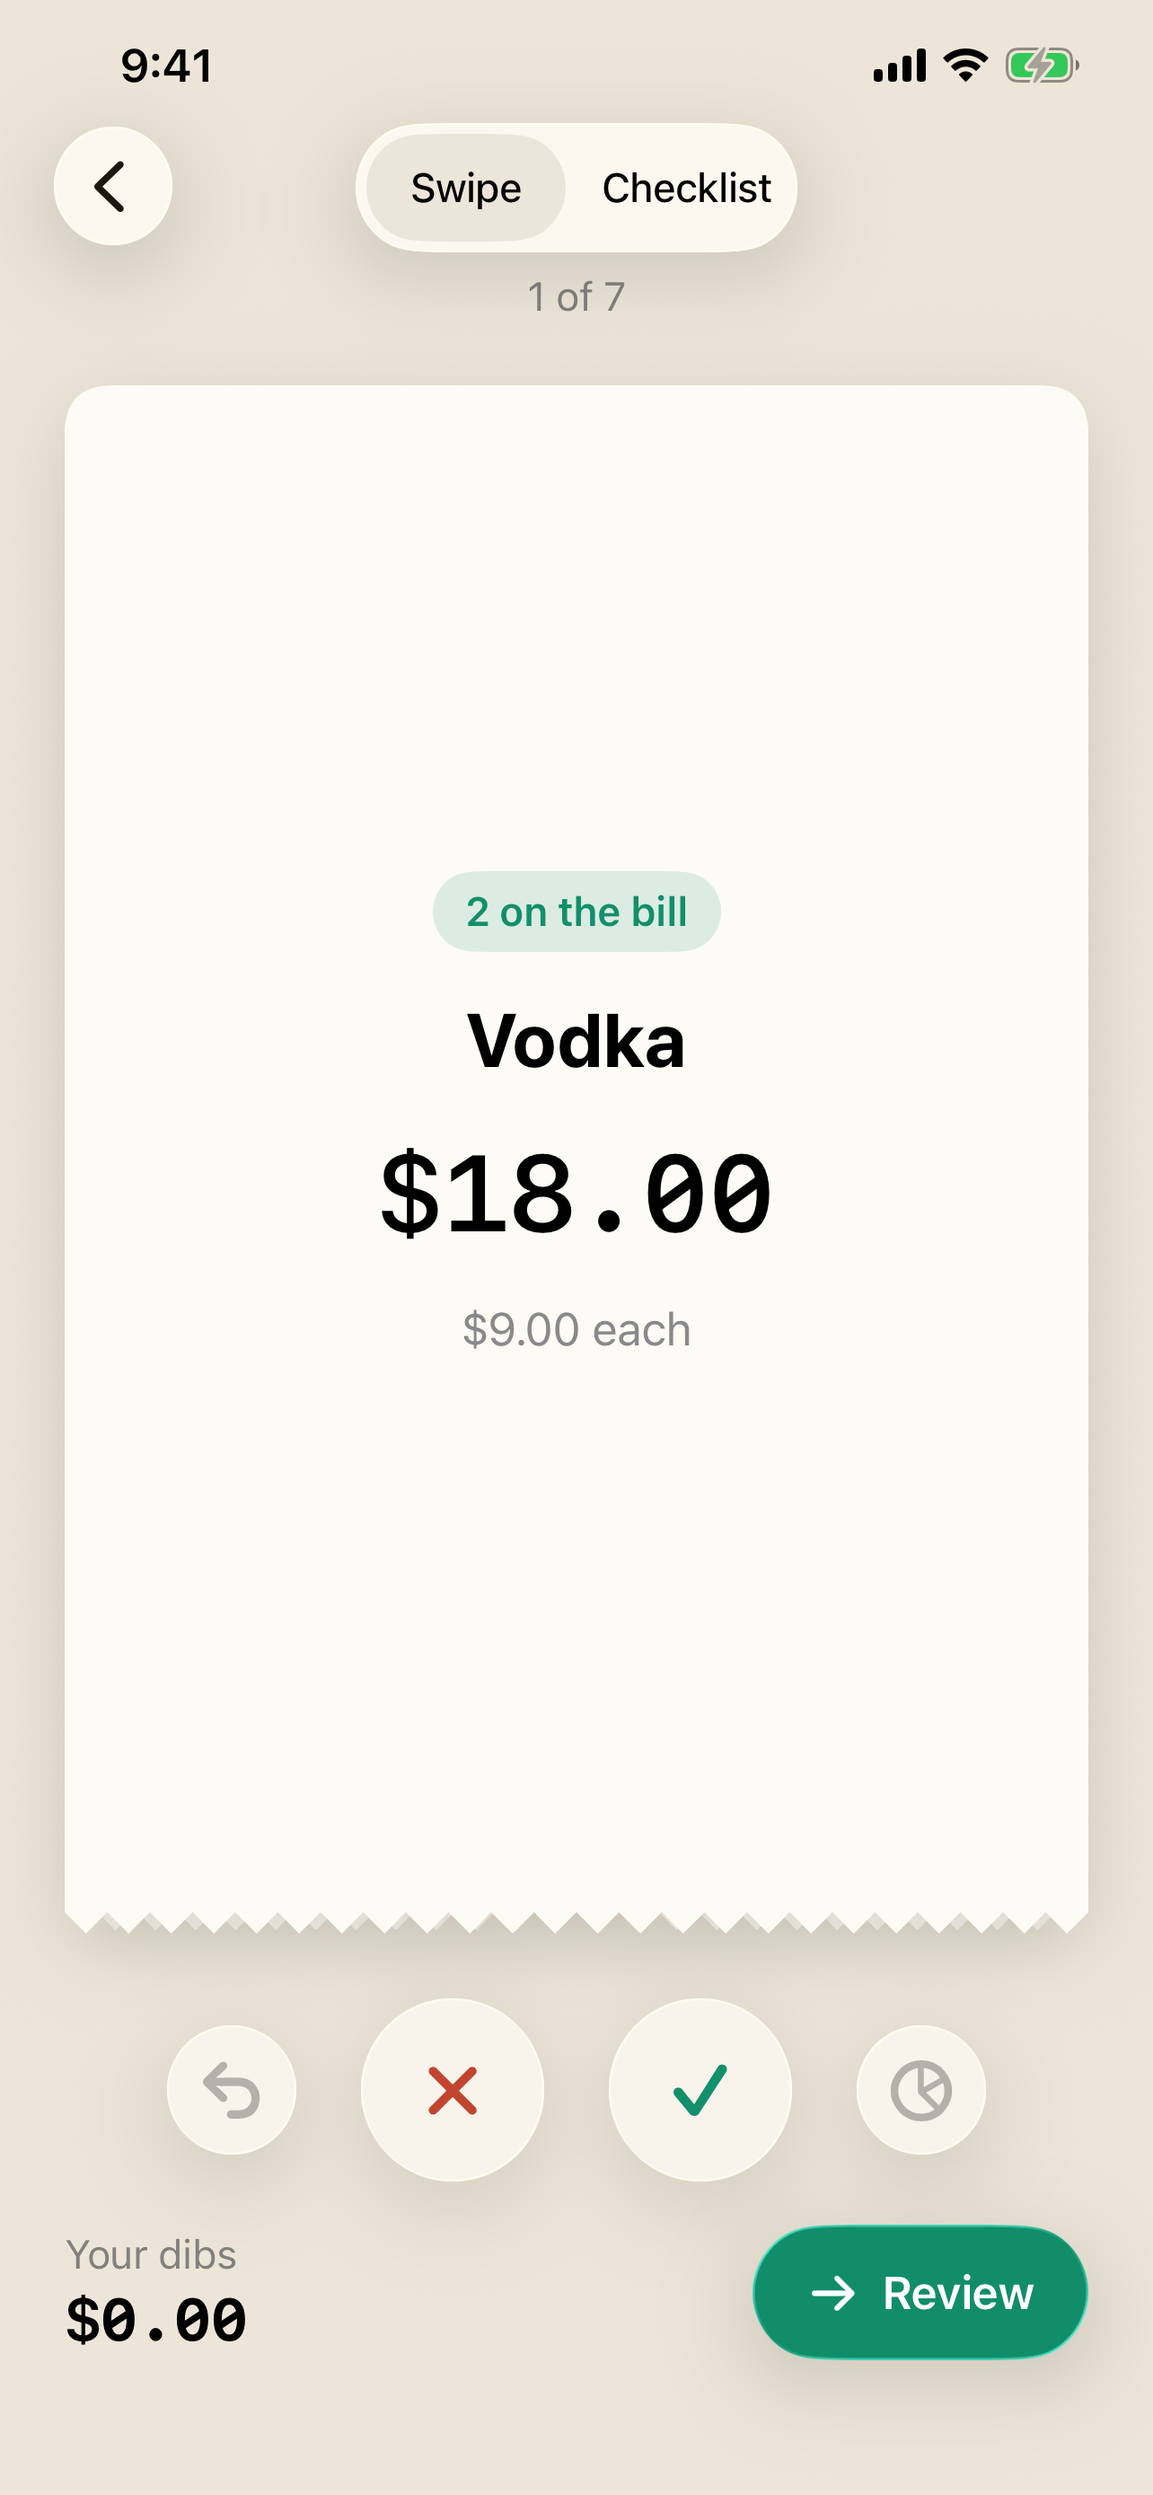
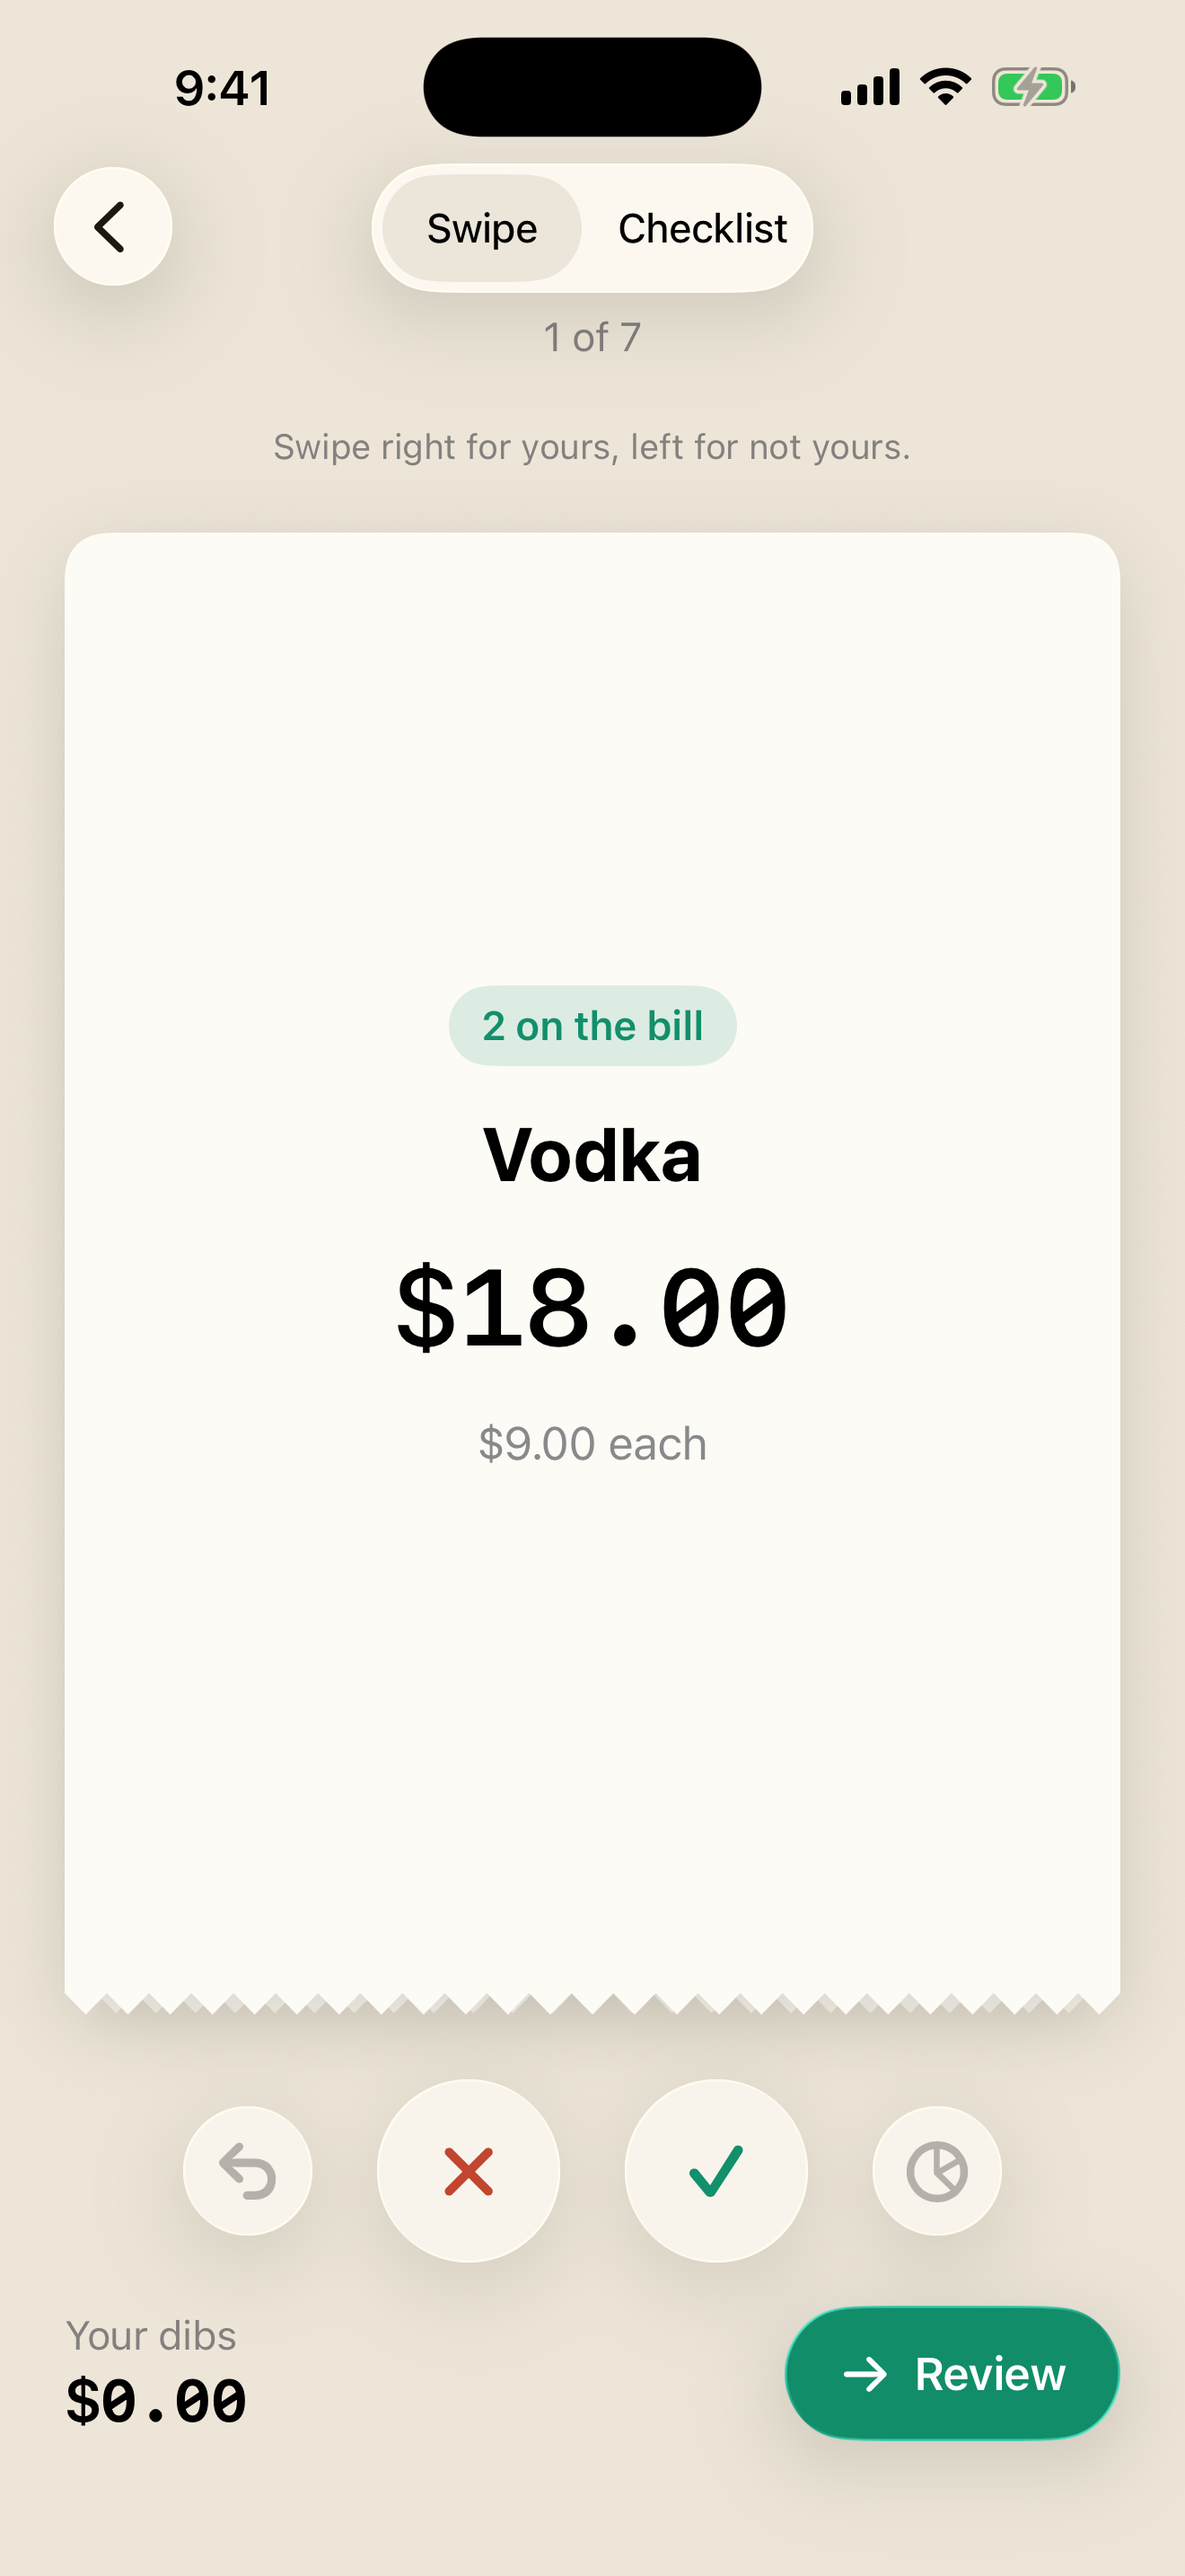
Retake the App Store screenshots and bring the listing up to date
The six screenshots are now 6.9-inch ones showing the current screens,
and the description covers bill names and the pay links on each row.

diff --git a/AppStore/app-store-listing.md b/AppStore/app-store-listing.md
@@ -5,10 +5,11 @@ other pages that must be filled in before "Add for Review" works.
 
 ## Version page (Distribution → 1.0 Prepare for Submission)
 
-### Screenshots (iPhone 6.5" Display)
+### Screenshots (iPhone 6.9" Display)
 
 Drag in the six files from `AppStore/screenshots/`, in name order. They are
-1284 × 2778. The first three show on the install sheet.
+1320 × 2868, taken on an iPhone 17 Pro Max; App Store Connect scales them
+for the smaller sizes. The first three show on the install sheet.
 
 1. `01-home.png`
 2. `02-bill.png`
@@ -41,11 +42,12 @@ iPad and Apple Watch: leave empty; the app is iPhone only.
     • Shared a bottle or an appetizer? Split a single item between people
     • A running total of what is covered and what nobody has claimed yet
     • Shared plates nobody claimed? Split the rest evenly in one tap
+    • Name the bill, so "Dinner at Nopa" is on everything you share
     • Past splits kept in History on your phone, ready to open or share again
     • Fix anything the scan got wrong, or type the bill in by hand
 
     GETTING PAID BACK
-    Add your Venmo, Cash App or PayPal handle and send each person a link that opens with their amount filled in. Or share the whole split as a picture or a list in the group chat. Call Dibs never handles money itself.
+    Add your Venmo, Cash App or PayPal handle and send each person a link that opens with their amount filled in, or send everyone's links to the group chat in one tap. On Venmo you can request each share directly. You can also share the whole split as a picture. Call Dibs never handles money itself.
 
     PRIVATE BY DESIGN
     No account and no sign-up. The receipt is read on your phone and nothing is uploaded.

diff --git a/AppStore/testflight.md b/AppStore/testflight.md
@@ -56,7 +56,7 @@ TestFlight → the build → Test Details:
 
 **What to Test**
 
-> First build. Please try it on a real restaurant receipt.
+> Please try it on a real restaurant receipt.
 >
 > - Scan a receipt with the camera, or pick a photo of one. Check that the
 >   items, quantities, prices, tax and total match the paper.
@@ -65,8 +65,10 @@ TestFlight → the build → Test Details:
 > - For an item with a quantity above 1, claim only some of them.
 > - Pass the phone to someone else and have them claim theirs.
 > - Change the tip on your own receipt and check your total.
+> - Name the bill, on the bill screen or the split screen.
 > - On the split screen, check each person's total, add your Venmo, Cash App or PayPal handle,
->   and share the pay links or the picture of the split.
+>   and send the pay links or the picture of the split.
+> - Tap Done, then find the bill by name in History.
 >
 > Tell me about receipts it reads wrong (a photo of the receipt helps most),
 > totals that look off, and anything confusing.

diff --git a/README.md b/README.md
@@ -9,6 +9,7 @@ around until the bill is covered.
   <img src="AppStore/screenshots/02-bill.png" width="200" alt="The scanned bill">
   <img src="AppStore/screenshots/03-swipe.png" width="200" alt="Swiping to call dibs">
   <img src="AppStore/screenshots/04-checklist.png" width="200" alt="Checklist view">
+  <img src="AppStore/screenshots/06-split.png" width="200" alt="The split, with pay links">
 </p>
 
 ## What it does
